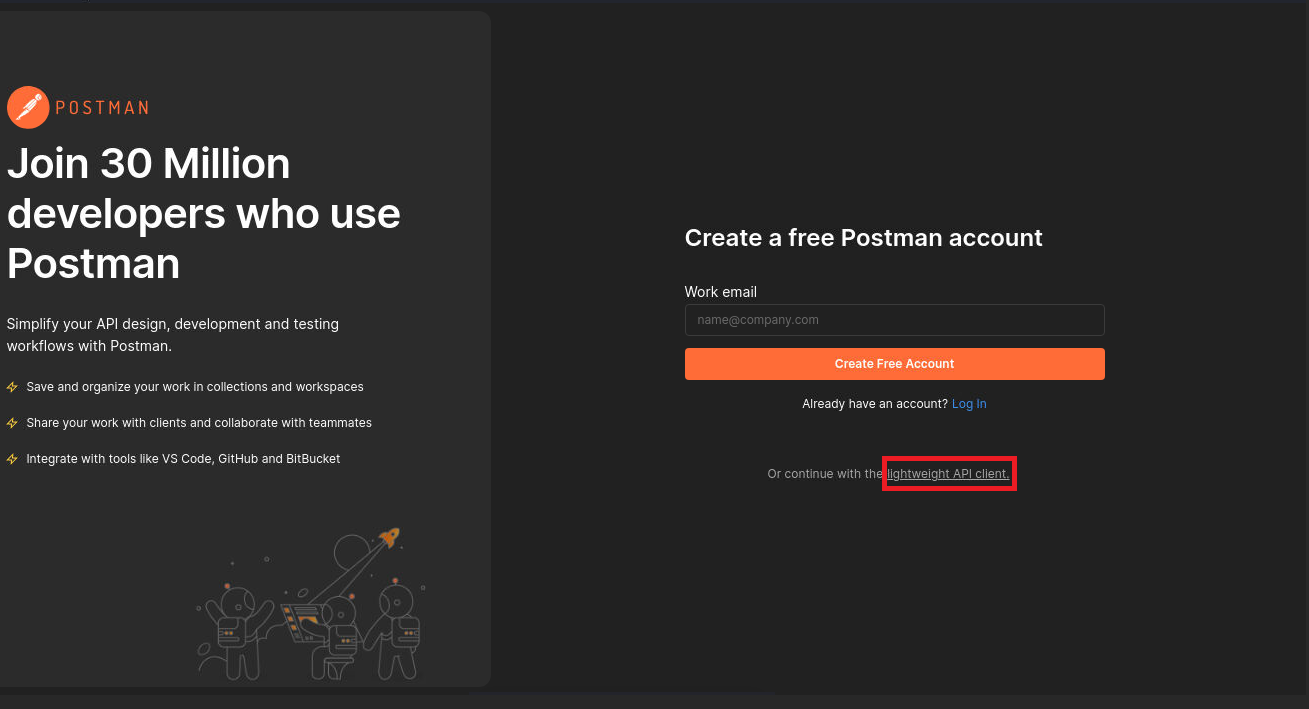
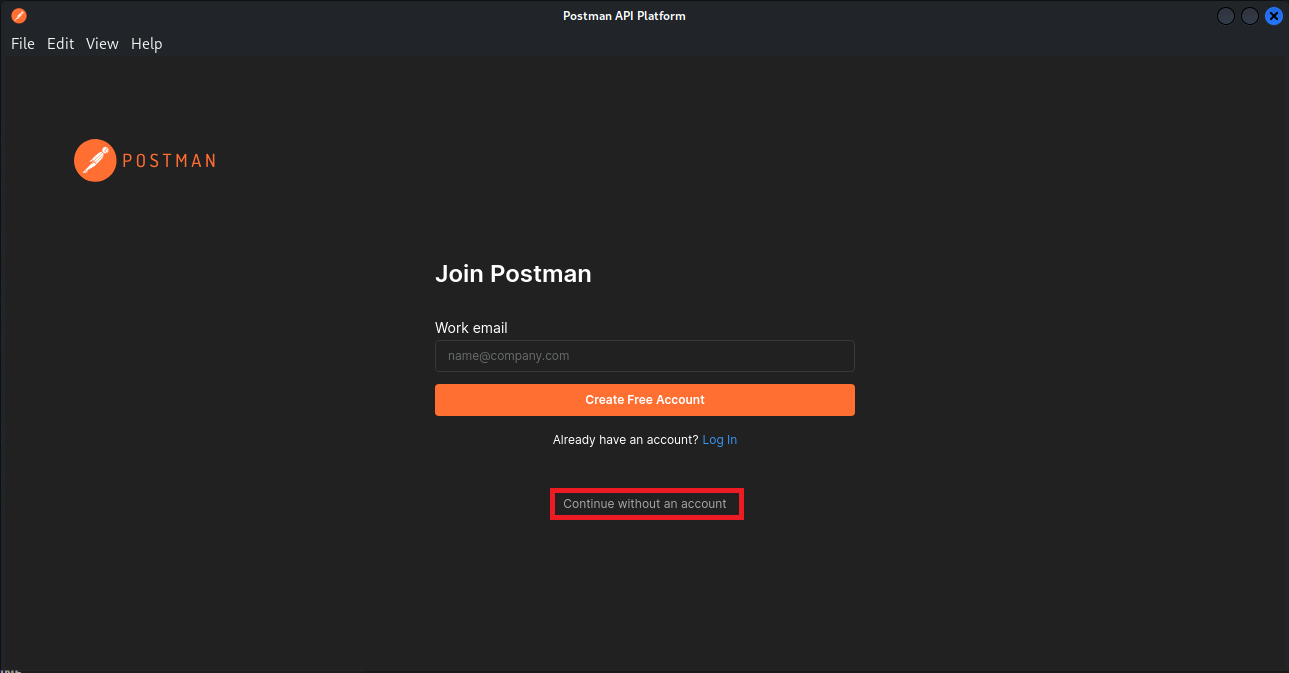
adding updated terraform

diff --git a/content/03chapter/01Task1.md b/content/03chapter/01Task1.md
@@ -8,32 +8,16 @@ weight: 10
 |                            |    |  
 |----------------------------| ----
 | **Goal**                   | Perform SQL injection attack
-| **Task**                   | Modify the hosts file on Kali and then perform a simple browser based attack
+| **Task**                   | Perform a simple browser based attack
 | **Verify task completion** | You should see that the SQLi attack is accepted by Juice Shop.
 
-1. Log into Kali linux: https://{{Kali IP}}/vnc.html
 
-2. DNS modification takes too long to propagate for this lab, so we will add a host entry on Kali.  Open the terminal emulator on Kali Linux screen. At the prompt, type:
 
-```sh
-bash
-sudo nano /etc/hosts
-```
-
-3. Add a host entry in the format ```<ip_address> <studentId>.fwebtraincse.com``` at the bottom of the file.  
-   - <ip_address> will come from the IP addresses provided by FortiWeb Cloud during application setup Chapter 2 Task 1 "Step 5" of the onboarding   
-   - <studentId> comes from your FortiWeb Cloud account ID (used to create the FortiWeb application)
-   - Once this is complete, type **<kbd>ctrl</kbd>+o** followed by <kbd>enter</kbd> and then **<kbd>ctrl</kbd>+x**
-
-![Hosts](hosts.png)
-
-4. Now let’s Navigate to the Firefox browser (located at the top of Kali desktop) and enter our FortiWeb Cloud Protected Juice Shop URL into the navigation bar ```https://number.fwebtraincse.com```.  Accept warnings and proceed to the application
-
-{{% notice info %}}If we had modified the DNS record at the beginning of this lab, FortiWeb would have pulled a valid SSL certificate from Let's Encrypt.{{% /notice %}}
+1. Navigate to the Firefox browser (located at the top of Kali desktop) and enter our FortiWeb Cloud Protected Juice Shop URL into the navigation bar ```https://number.fwebtraincse.com```.  Accept warnings and proceed to the application
 
 ![stud-home](studhome.png)
 
-5. Let’s perform a very simple SQLi attack. To perform a SQLi attack append ```?name=' OR 'x'='x``` to your URL.  Be sure that you use **YOUR NUMBER**.
+2. Let’s perform a very simple SQLi attack. To perform a SQLi attack append ```?name=' OR 'x'='x``` to your URL.  Be sure that you use **YOUR NUMBER**.
 
    - For example (be sure to use your studentId)
      - ```https://669.fwebtraincse.com/?name=' OR 'x'='x```

diff --git a/content/05chapter/01Task1.md b/content/05chapter/01Task1.md
@@ -12,11 +12,13 @@ weight: 10
 
 1.  Open postman by opening a new terminal (not bash) and type ```Postman``` at the prompt.  This should start the postman application.
 
-![postman](postman.png)
-
-- When postman comes up, select "Or continue with lightweight API client
+- When postman comes up, select **Continue without an account**
 
 ![postmanlite](p-light.png)
+
+- Now select **Open Lightweight API Client**
+
+![postmanlite2](p-light2.png)
 
 2.  Now, let's make an api call to search for Apple Juice.  Use the below url, but replace the url with your student url.
 

diff --git a/content/01chapter/03Task3.md b/content/01chapter/03Task3.md
@@ -39,6 +39,10 @@ Accept certificate errors and proceed.  When prompted, click **Connect**.  This 
 
  4.  From the Kali Linux session, open a terminal window and Enter the following:
 
+ {{% notice warning %}} 
+Do not paste these commands in all at once.  We have seen some situations, in which some of the commands fail, which causes issues later in the lab. 
+{{% /notice %}}
+
 ```sh
 bash
 echo nameserver 8.8.8.8 >> /etc/resolv.conf
